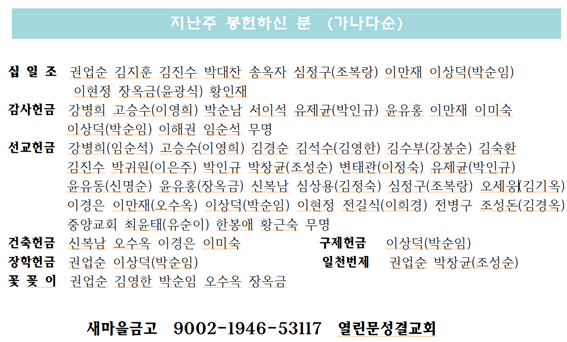
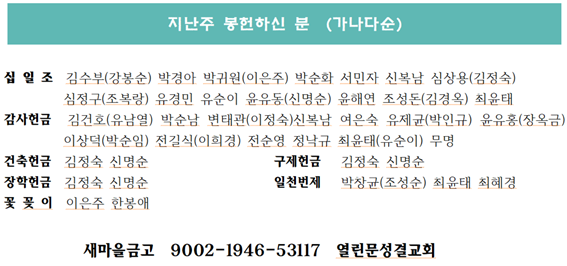
2022.8.27.

diff --git a/index.html b/index.html
@@ -66,7 +66,7 @@
       <h1 class="home__title">
         열린문교회<br>
       </h1>
-      <h2 class="home__description">제 3권 30호 2022년 8월 21일</h2>
+      <h2 class="home__description">제 3권 31호 2022년 8월 28일</h2>
       
       <!-- 아래는 타이틀임, 안쓸 때는 주석처리하기로 -->
       <!-- <h1 class="home__description_event">맥추감사 주일</h1> -->
@@ -97,8 +97,8 @@
 
       <h2>주일 낮 예배</h2>
       <ul class="ul1">
-          <li>사회: 조성돈 장로</li>
-          <li>다음주 사회: 유제균 장로</li>
+          <li>사회: 유제균 장로 </li>
+          <li>다음주 사회: 고승수 안수집사</li>
       </ul>
 
         <table>
@@ -109,29 +109,29 @@
               </tr>
               <tr>    
                   <th><i class="fas fa-male"></i> 찬송</th>
-                  <td>28장</td>
+                  <td>36장</td>
               </tr>
               <tr>
                   <th><i class="fas fa-male"></i> 교독문</th>
-                  <td>33번 시 72 편</td>
+                  <td>34번 시 82 편</td>
               </tr>
                   <th><i class="fas fa-male"></i> 신앙고백</th>
                   <td>사도신경</td>
               <tr>
                   <th>찬송</th>
-                  <td>384장</td>
+                  <td>176장</td>
               </tr>
               <tr>
                   <th>대표기도</th>
                   <td>
-                    1부 전길식 집사<br>
-                    2부 최윤태 안수집사
+                    1부 신복남 집사<br>
+                    2부 조성돈 장로
                   </td>
               </tr>
               <tr>
                   <th>성경봉독</th>
                   <td> 
-                    렘 29 : 11---14
+                    행 1 : 9---14
                   </td>
               </tr>
               <tr>
@@ -144,7 +144,7 @@
                 <th>설교</th>
                 <td>
                   <strong>
-                    믿음은 곧 희망이다
+                    예수님 다시 오십니다
                   </strong>
                 </td>
             </tr>
@@ -156,7 +156,7 @@
               <tr>
                 <th>봉헌</th>
                 <td>
-                  380장<br>
+                  180장<br>
                 </td>
               </tr>
               <tr>
@@ -197,8 +197,8 @@
               <tr>
                 <th>(다음주 기도)</th>
                 <td>
-                  1부 신복남 집사<br>
-                  2부 조성돈 장로
+                  1부 전순영 집사<br>
+                  2부 유제균 장로
                 </td>
               </tr>
           </tbody>
@@ -223,20 +223,20 @@
     </tr>
     <tr>
       <th>기도</th>
-      <td>신명순 권사</td>
+      <td>이영희 권사</td>
     </tr>
     <tr>
       <th>성경</th>
-      <td>창 34 : 8---17</td>
+      <td>창 35 : 1---8</td>
     </tr>
     <tr>
       <th>특송</th>
-      <td>1 여전도회 </td>
+      <td>2 여전도회 </td>
     </tr>
 
     <tr>
       <th>설교</th>
-      <td>잠잠하신 하나님</td>
+      <td>있어야 할 자리</td>
     </tr>
 
     <!-- <tr>
@@ -245,7 +245,7 @@
     </tr> -->
     <tr>
       <th>찬송</th>
-      <td>446장, 좋으신 하나님</td>
+      <td>393장, 좋으신 하나님</td>
     </tr>
     <tr>
       <th>광고</th>
@@ -257,11 +257,11 @@
     </tr>
     <tr>
       <th>(다음주 기도)</th>
-      <td>신명순 권사</td>
+      <td>조성순 권사</td>
     </tr>
     <tr>
       <th>(다음주 특송)</th>
-      <td>2여전도회</td>
+      <td>3 여전도회</td>
     </tr>
   </tbody>
 </table>
@@ -286,7 +286,7 @@
 
     <tr>
       <th>성경</th>
-      <td>시편 88 편</td>
+      <td>시편 89 편</td>
     </tr>
 
     <!-- <tr>  // 이거 원래 주석처리 하고 있었음
@@ -295,7 +295,7 @@
     </tr> -->
 
     <th>찬송</th>
-    <td>445장</td>
+    <td>563장</td>
     <tr>
       <th>합심기도</th>
       <td>다같이</td>
@@ -387,11 +387,11 @@
         </div>
         <h1 class="major__title">암송말씀</h1>
         <div class="major__description">
-          <p>무릇 하나님께로부터 난 자마다</p>
-          <p>세상을 이기느니라</p>
-          <p>세상을 이기는 승리는 이것이니</p>
-          <p>우리의 믿음이이라</p>
-          <p>(요한일서5:4)</p>
+          <p>보라 내가 속히 오리니</p>
+          <p>내가 줄 상이 내게 있어</p>
+          <p>각 사람에게 그가 행한대로</p>
+          <p>갚아 주리라.</p>
+          <p>(요한계시록 22:12)</p>
         </div>
       </div>
     </section>
@@ -426,25 +426,39 @@
               </p><br>
 
               <p><a href="">3.</a>
-                새벽을 깨우는 기도의 파수꾼이 더 필요합니다.
+                새벽을 깨우는 기도의 파수꾼이 필요합니다.
               </p><br>
               
               <p><a href="">4.</a>
-                9월 둘째주간 부터 전도와 구역예배를 시작합니다.
+                2부 예배 후 1여전도회 월례회가 있습니다
               </p><br>
 
               <p><a href="">5.</a>
-                이번 집중호우로 지방내 18교회와 128 성도가정이 침수피해 
-                를 입어 수재헌금을 모아 돕고자 합니다.(8월29일까지)
+                9월 월삭예배는 목요일 새벽 5시입니다 (안수기도)
               </p><br>
 
               <p><a href="">6.</a>
-                * 입원 (운여홍 안수집사 -- 신촌세브란스 ) <br>
-                * 요양원 (강영희 권사, 라중순 권사, 박성환 집사) <br>
+                다음주일은 9월 선교예배입니다. (김현수 바느아트 선교사)
               </p><br>
 
               <p><a href="">7.</a>
-                떡 접대(변태관, 이정숙 집사)
+                9월 둘째주간 부터 전도와 구역예배를 시작합니다.
+              </p><br>
+
+              <p><a href="">8.</a>
+                침수피해 수재헌금을 모아 돕고자 합니다.(8월29일까지)
+              </p><br>
+
+              <p><a href="">9.</a>
+                30일(화) 오전 7시에 부활산 금초가 있습니다.
+              </p><br>
+
+              <p><a href="">10.</a>
+                * 입원 (운여홍 안수집사 -- 헌대아산병원)
+              </p><br>
+
+              <p><a href="">11.</a>
+                개업 (카페, 이미숙성도 -- 다육정)
               </p><br>
 
               <!-- 다음달 예배위원 안내 -> 지우지 말고 주석 처리해서 활용하자 -->
